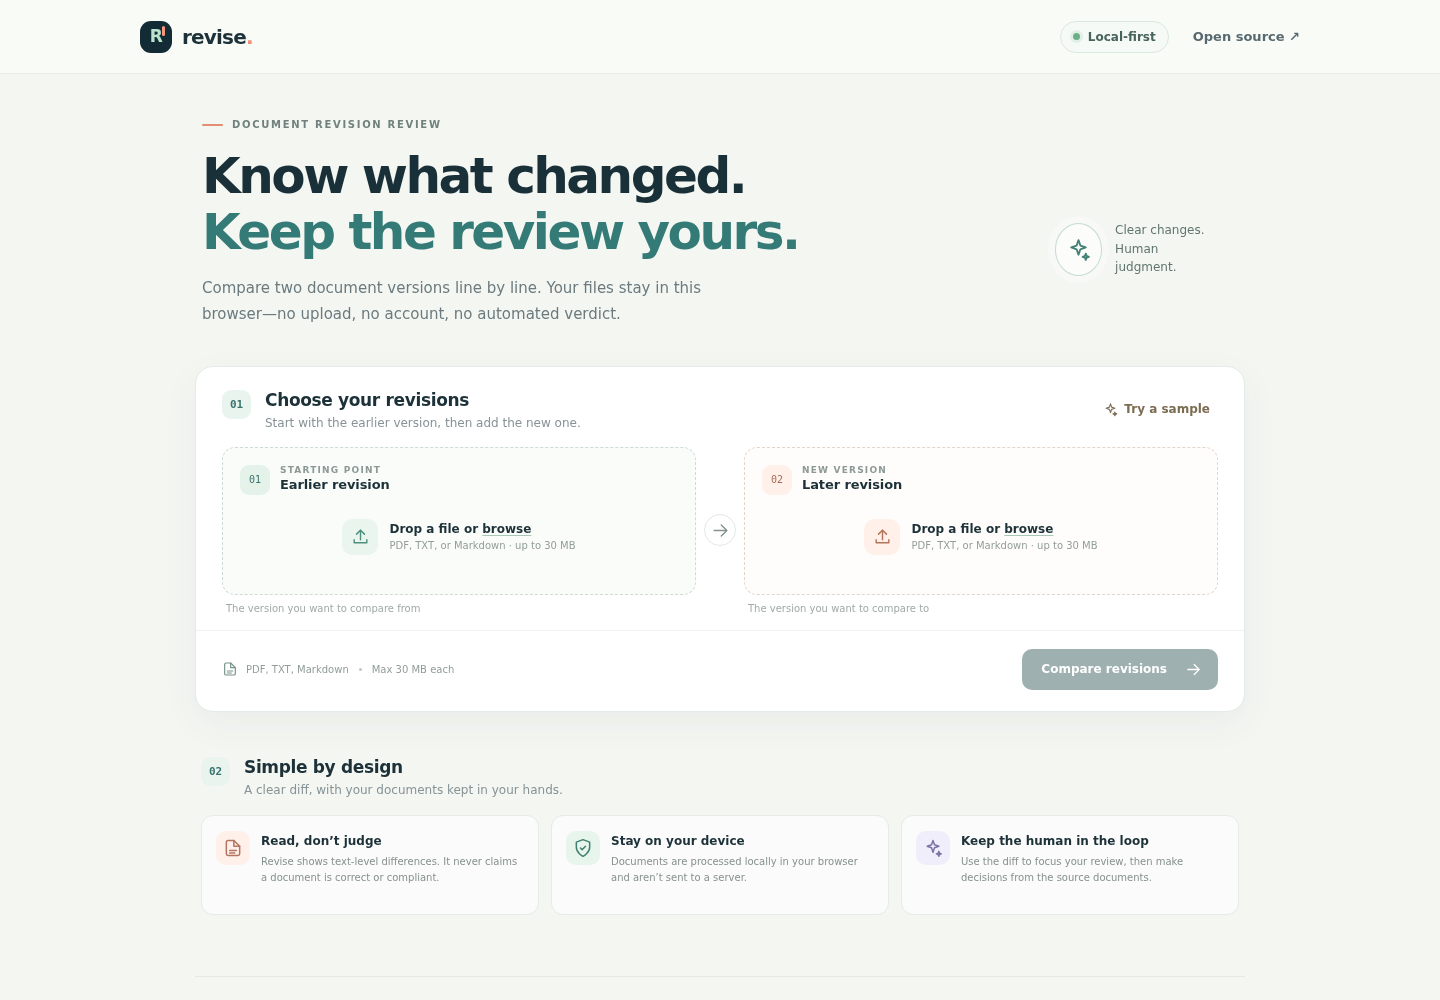
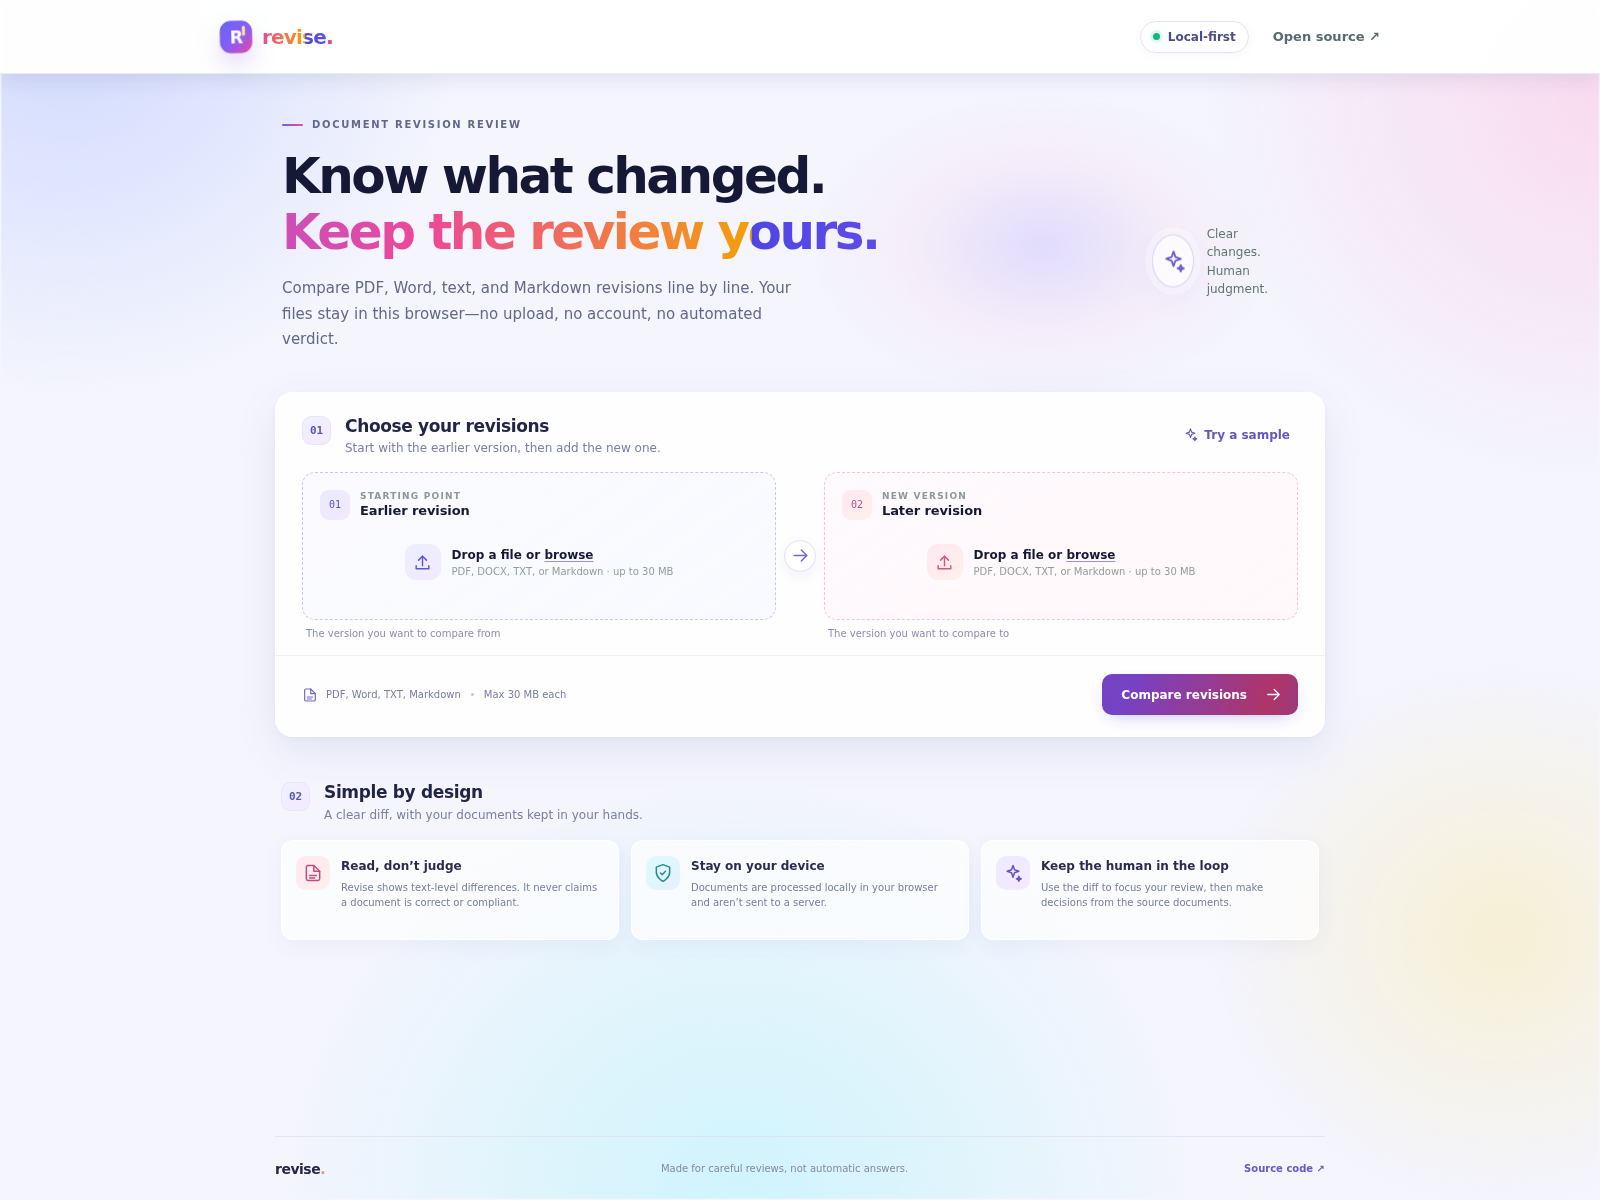
Refresh Revise README and screenshots

diff --git a/README.md b/README.md
@@ -1,33 +1,53 @@
-# Revise
+<div align="center">
+  <a href="https://goutham-valugula.github.io/revise/">
+    <img src="assets/revise-banner.svg" alt="Revise — Know what changed. Keep the review yours." width="100%" />
+  </a>
 
-**A local-first document revision comparison tool.** Compare PDFs, Word documents, and text files line by line, review what changed, and export a Markdown summary. Revise is deliberately a text-difference tool—not an automated quality, safety, or compliance verdict.
+  <p><strong>Private, line-by-line document revision review.</strong></p>
+  <p>
+    <a href="https://goutham-valugula.github.io/revise/"><strong>↗ Open the live app</strong></a>
+    &nbsp;·&nbsp;
+    <a href="#run-locally">Run it locally</a>
+    &nbsp;·&nbsp;
+    <a href="https://github.com/goutham-valugula/revise/issues">Report an issue</a>
+  </p>
 
-![Revise comparison workspace](assets/revise-preview.png)
+  <p>
+    <img alt="PDF, DOCX, TXT and Markdown" src="https://img.shields.io/badge/Files-PDF%20%C2%B7%20DOCX%20%C2%B7%20TXT%20%C2%B7%20MD-7248d8?style=flat-square" />
+    <img alt="Local-first" src="https://img.shields.io/badge/Processing-100%25%20in%20your%20browser-168b83?style=flat-square" />
+    <a href="LICENSE"><img alt="MIT License" src="https://img.shields.io/badge/License-MIT-f08b64?style=flat-square" /></a>
+  </p>
+</div>
 
-## Why Revise
+## See the latest interface
 
-Comparing procedure and policy revisions often means scanning long documents for small edits. Revise makes those edits easier to find while leaving interpretation and decisions with the reviewer.
+<a href="https://goutham-valugula.github.io/revise/"><img src="assets/revise-preview.png" alt="The current Revise workspace: choose two document revisions, compare them privately, and review the changes." width="100%" /></a>
 
-## Features
+## Know what changed—without handing over your files
 
-- Compare PDF, DOCX, TXT, and Markdown files side by side.
-- Extract selectable PDF text in the browser with PDF.js.
-- See additions, removals, and changed lines with line numbers.
-- Filter to changed lines or search within the comparison.
-- Export a Markdown summary for review notes.
-- Try the included fictional sample without choosing files.
-- Responsive layout with keyboard-friendly controls.
+Revise compares two versions of a document and presents additions, removals, and reworded lines side by side. It helps you focus your review; **you stay responsible for interpreting the changes**.
 
-## Privacy and limitations
+No account or upload is needed. Documents are read and compared in your browser, and Revise has no file-upload backend.
 
-- Files are read and processed in your browser; Revise has no upload service, account system, analytics, or backend.
-- Scanned/image-only PDFs are not OCR'd. Text extraction may omit or flatten tables, columns, images, formatting, or page layout in PDF and Word documents.
-- A text diff cannot determine whether a change is correct, safe, or compliant. Always review the original documents before making decisions.
-- Maximum input file size: 30 MB per document.
+### A quick review flow
+
+1. Add the earlier and later versions—or load the fictional sample to explore the interface.
+2. Scan the line-by-line comparison, search for a phrase, or show changed lines only.
+3. Export a Markdown summary for your review notes.
+
+### Works with
+
+| Format | What Revise reads | Notes |
+| --- | --- | --- |
+| **PDF** | Selectable text | Scanned/image-only PDFs are not OCR'd. |
+| **Word** | Modern `.docx` files | Legacy `.doc` is not supported. Formatting, tracked changes, tables, and images are not preserved. |
+| **Text** | `.txt` and `.md` | Compared as text, line by line. |
+
+Each file can be up to **30 MB**. Extraction can flatten or omit layout, tables, images, or handwriting, so check the source documents before acting on a difference. A text diff cannot decide whether a change is correct, safe, or compliant.
 
 ## Run locally
 
-Requires Node.js 22.13+ (or Node.js 24+).
+Requires Node.js **22.13+** or **24+**.
 
 ```bash
 git clone https://github.com/goutham-valugula/revise.git
@@ -36,31 +56,21 @@ npm ci
 npm run dev
 ```
 
-Open the local URL printed by Vite (usually `http://localhost:5173`). These steps work on any computer with Git and Node.js installed; the repository is public, so no GitHub login is needed.
+Open the local address printed by Vite (usually `http://localhost:5173`). No GitHub sign-in is needed to clone this public repository.
 
-## Supported formats
-
-- **PDF:** compares selectable text; scanned/image-only PDFs require OCR, which Revise does not currently include.
-- **Word:** supports modern `.docx` files. Legacy `.doc` files are not supported. Comparison uses extracted text and does not preserve Word formatting, tracked changes, tables, or images.
-- **Text:** supports `.txt` and `.md` files.
-
-Files are parsed locally in your browser. Revise does not upload them to a server.
-
-## Build and host remotely
-
-To create a production-ready static site:
+## Build and host
 
 ```bash
 npm ci
 npm run build
 ```
 
-Deploy the generated `dist/` directory to any static web host, or copy it to a web server such as Nginx. No application server or backend is required. `npm run preview` is for checking the production build locally, not for running a production service.
+The production-ready static site is written to `dist/`. It can be hosted on GitHub Pages or another static web host; no application server or document backend is required. To preview the build locally, run `npm run preview`.
 
-## Tech
+## Built with
 
-React, TypeScript, Vite, [PDF.js](https://github.com/mozilla/pdf.js), and [jsdiff](https://github.com/kpdecker/jsdiff). Fonts use system stacks; document parsing and comparison require no third-party service.
+React · TypeScript · Vite · [PDF.js](https://github.com/mozilla/pdf.js) · [Mammoth](https://github.com/mwilliamson/mammoth.js) · [jsdiff](https://github.com/kpdecker/jsdiff)
 
 ## License
 
-MIT. See [LICENSE](LICENSE).
+[MIT](LICENSE)
